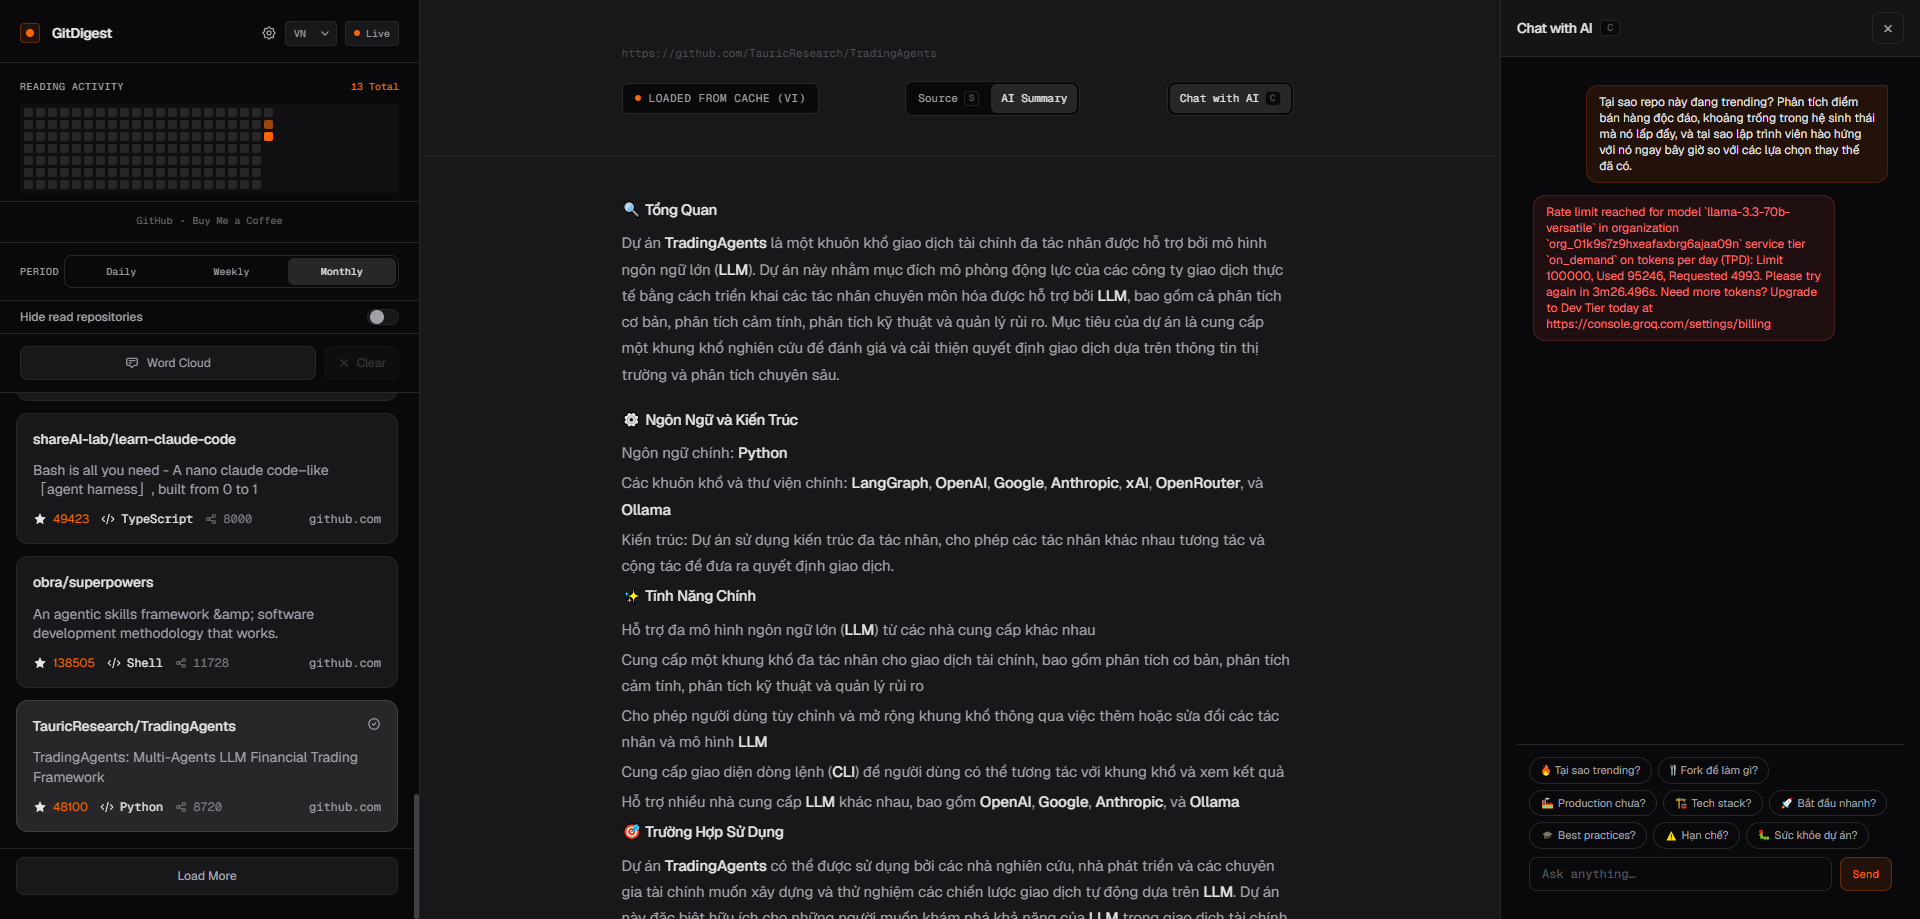
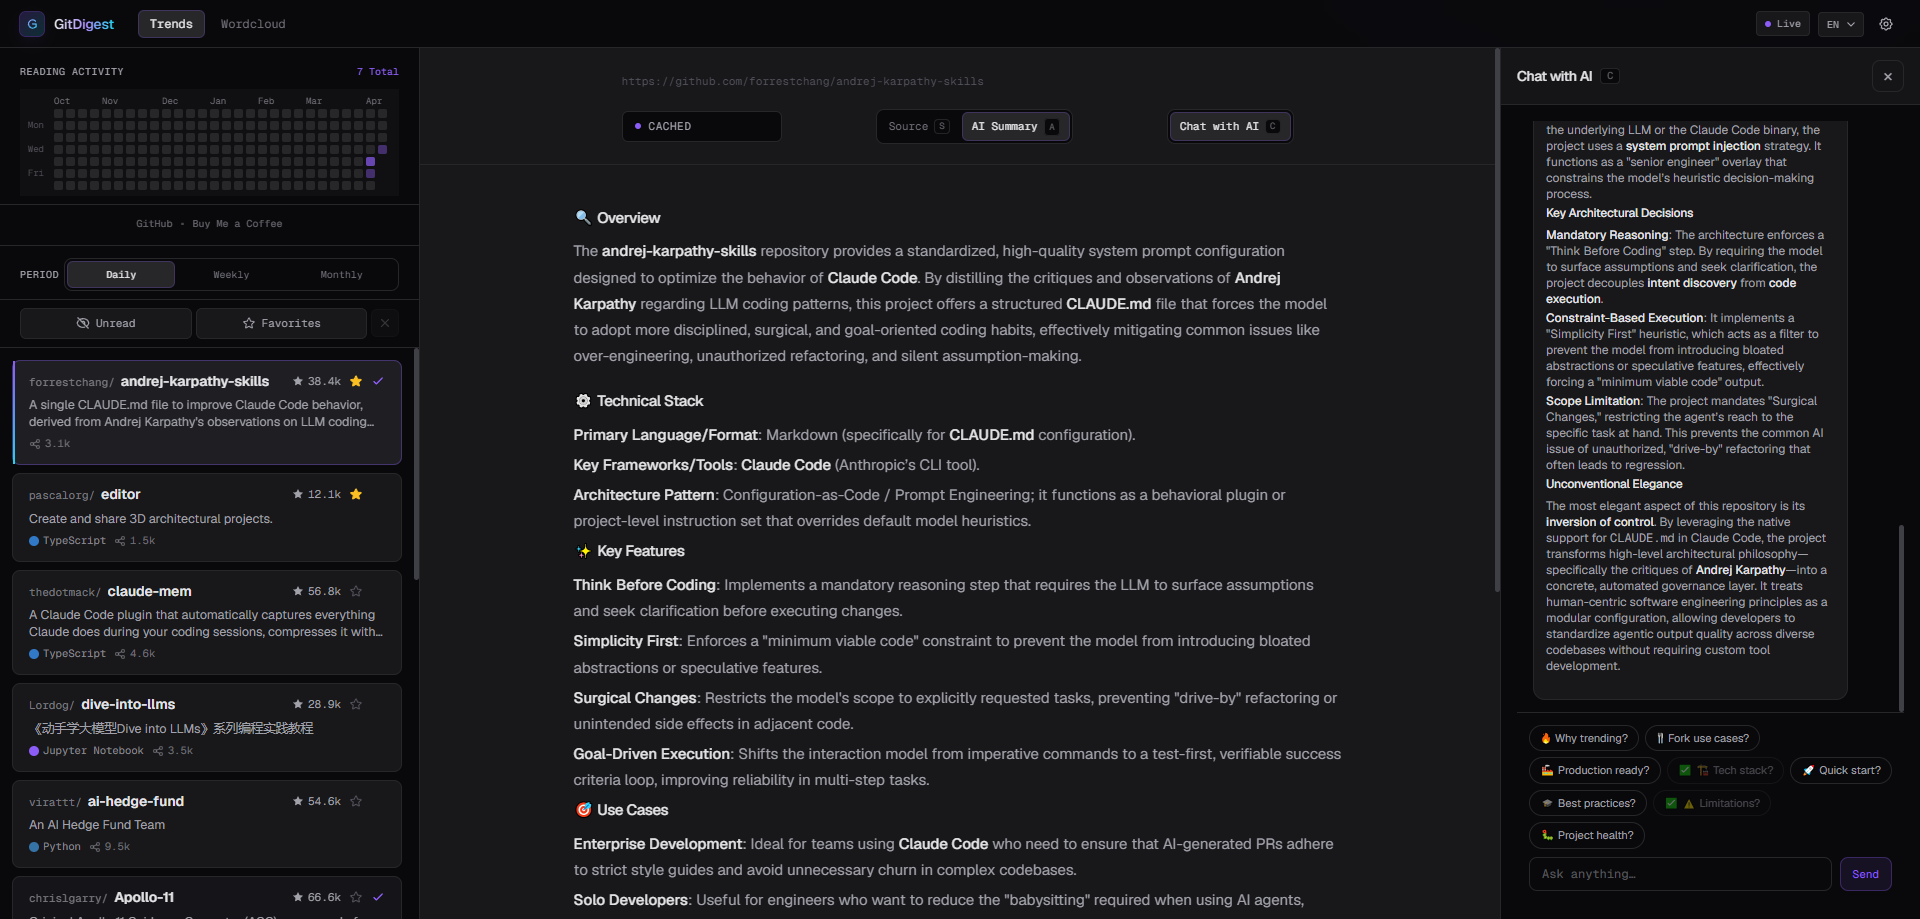
feat(ui): add motion polish + fix mobile nav/back flow
- Animations: chat panel slide-in from right, water-flow effect on filter
  toggle activation (violet→cyan / amber→pink), settings dialog scale+fade,
  wordcloud canvas fade-in, status pill crossfade swap, card hover lift,
  staggered card entrance with translateY, right-pane swap transition.
- Brand: G-shaped logo (was A); hide brand text on mobile.
- Mobile fixes:
  - Wordcloud tab swap panes before await so view appears instantly.
  - F5 on Wordcloud restores wordcloud view (not feed).
  - Back from reader returns to Trends, no longer flips to Wordcloud.
  - Remove redundant "Back to Feed" button inside wordcloud view.
- Update preview.png.

diff --git a/public/js/main.js b/public/js/main.js
@@ -341,41 +341,35 @@ dom.readerViewSourceBtn.addEventListener("click", () => {
   }
 });
 
-// ─── Mobile back ──────────────────────────────────────────────────────────────
+// ─── Mobile back (button only visible on mobile) ──────────────────────────────
 dom.mobileBackBtn.addEventListener("click", () => {
   closeCommentsPanelLocal(false);
-  if (window.innerWidth < MOBILE_BREAKPOINT) {
-    dom.feedPane.classList.remove("hidden");
-    dom.readerPane.classList.add("max-md:hidden");
-  }
-  // Return to wordcloud default on desktop
-  dom.readerWorkspace.classList.add("hidden");
-  dom.readerWorkspace.classList.remove("flex");
-  dom.wordcloudView.classList.remove("hidden");
-  dom.emptyState.classList.add("hidden");
-  // Clear active card
+  // Return to feed list (Trends mode)
+  dom.feedPane.classList.remove("hidden");
+  dom.readerPane.classList.add("max-md:hidden");
+  // Clear active card so reader doesn't auto-restore on next interaction
   if (state.activeCardId) {
     const old = document.getElementById(`card-${state.activeCardId}`);
     if (old) old.classList.remove("is-active");
     state.activeCardId = null;
     state.currentActiveRepo = null;
   }
-  syncNavTabs("wordcloud");
+  syncNavTabs("reader");
 });
 
 // ─── Wordcloud ────────────────────────────────────────────────────────────────
 dom.wordcloudBtn.addEventListener("click", async () => {
   try {
-    showWordCloudView();
-    syncNavTabs("wordcloud");
-    playPaneEnter(dom.wordcloudView);
-    await loadWordCloud(getCurrentWordcloudPeriod(), handleCardClick);
-    
-    // Hide feed on mobile (reader pane takes full width)
+    // Swap mobile panes first so the wordcloud area shows immediately,
+    // then load data (showing skeleton/spinner inside it).
     if (window.innerWidth < MOBILE_BREAKPOINT) {
       dom.feedPane.classList.add("hidden");
       dom.readerPane.classList.remove("max-md:hidden");
     }
+    showWordCloudView();
+    syncNavTabs("wordcloud");
+    playPaneEnter(dom.wordcloudView);
+    await loadWordCloud(getCurrentWordcloudPeriod(), handleCardClick);
   } catch (error) {
     console.error("Failed to load WordCloud:", error);
     // Show error status to user
@@ -609,23 +603,28 @@ const _savedMode = (() => {
 })();
 const _initialMode = _savedMode === "reader" ? "reader" : "wordcloud";
 
-if (_initialMode === "reader" && window.innerWidth >= MOBILE_BREAKPOINT) {
-  // Show empty state — no active repo on fresh load
+if (_initialMode === "reader") {
+  // Mobile: just show feed list (default mobile view). Desktop: show empty state on right.
   dom.wordcloudView.classList.add("hidden");
   dom.readerWorkspace.classList.add("hidden");
-  dom.emptyState.classList.remove("hidden");
-  dom.emptyState.classList.add("flex");
+  if (window.innerWidth >= MOBILE_BREAKPOINT) {
+    dom.emptyState.classList.remove("hidden");
+    dom.emptyState.classList.add("flex");
+  }
   syncNavTabs("reader");
 } else {
   syncNavTabs("wordcloud");
-  if (window.innerWidth >= MOBILE_BREAKPOINT) {
-    (async () => {
-      try {
-        showWordCloudView();
-        await loadWordCloud(getCurrentWordcloudPeriod(), handleCardClick);
-      } catch (err) {
-        console.error("Initial wordcloud load failed:", err);
+  (async () => {
+    try {
+      // On mobile, swap panes so wordcloud takes full screen
+      if (window.innerWidth < MOBILE_BREAKPOINT) {
+        dom.feedPane.classList.add("hidden");
+        dom.readerPane.classList.remove("max-md:hidden");
       }
-    })();
-  }
+      showWordCloudView();
+      await loadWordCloud(getCurrentWordcloudPeriod(), handleCardClick);
+    } catch (err) {
+      console.error("Initial wordcloud load failed:", err);
+    }
+  })();
 }

diff --git a/public/index.html b/public/index.html
@@ -116,11 +116,11 @@
                 <stop offset="1" stop-color="#22d3ee"/>
               </linearGradient>
             </defs>
-            <path d="M5 18 L12 5 L19 18"/>
-            <path d="M8 14 H16"/>
+            <path d="M18 7 A 7 7 0 1 0 18 17"/>
+            <path d="M13 12 L19 12 L19 17"/>
           </svg>
         </span>
-        <span class="text-sm font-semibold tracking-tight bg-clip-text text-transparent" style="background-image: linear-gradient(90deg,#e4e4e7,#a78bfa 55%,#22d3ee);">GitDigest</span>
+        <span class="hidden sm:inline text-sm font-semibold tracking-tight bg-clip-text text-transparent" style="background-image: linear-gradient(90deg,#e4e4e7,#a78bfa 55%,#22d3ee);">GitDigest</span>
       </a>
 
       <!-- Nav tabs -->
@@ -368,29 +368,6 @@
             <div
               class="sticky top-0 z-20 bg-surface/95 backdrop-blur-xl border-b border-borderSubtle shadow-sm flex flex-col shrink-0"
             >
-              <div class="md:hidden p-4 border-b border-borderSubtle">
-                <button
-                  id="wordcloudMobileBackBtn"
-                  type="button"
-                  class="text-sm text-textMuted hover:text-textMain flex items-center gap-2"
-                >
-                  <svg
-                    class="w-4 h-4"
-                    fill="none"
-                    viewBox="0 0 24 24"
-                    stroke="currentColor"
-                  >
-                    <path
-                      stroke-linecap="round"
-                      stroke-linejoin="round"
-                      stroke-width="2"
-                      d="M15 19l-7-7 7-7"
-                    ></path>
-                  </svg>
-                  Back to Feed
-                </button>
-              </div>
-
               <div
                 class="px-6 py-5 md:py-5 md:px-10 lg:px-16 flex flex-col items-center"
               >

diff --git a/public/js/wordcloud.js b/public/js/wordcloud.js
@@ -22,7 +22,6 @@ import {
   wordcloudContent,
   readerPane,
   feedPane,
-  wordcloudMobileBackBtn,
   wordcloudPeriodDaily,
   wordcloudPeriodWeekly,
   wordcloudPeriodMonthly,
@@ -593,18 +592,3 @@ if (wordcloudPeriodMonthly) {
   );
 }
 
-// Mobile: back button hides wordcloud view and restores feed visibility
-if (wordcloudMobileBackBtn) {
-  wordcloudMobileBackBtn.addEventListener("click", () => {
-    hideWordCloudView();
-    // Also hide the readerPane on mobile so the feed pane is visible again
-    if (readerPane) {
-      readerPane.classList.add("hidden");
-      readerPane.classList.remove("flex");
-    }
-    // Show feed pane again
-    if (feedPane) {
-      feedPane.classList.remove("hidden");
-    }
-  });
-}

diff --git a/public/js/dom.js b/public/js/dom.js
@@ -76,7 +76,6 @@ export const wordcloudStatus = q("wordcloudStatus");
 export const wordcloudCategories = q("wordcloudCategories");
 export const wordcloudInsights = q("wordcloudInsights");
 export const wordcloudTrends = q("wordcloudTrends");
-export const wordcloudMobileBackBtn = q("wordcloudMobileBackBtn");
 export const wordcloudPeriodDaily = q("wordcloudPeriodDaily");
 export const wordcloudPeriodWeekly = q("wordcloudPeriodWeekly");
 export const wordcloudPeriodMonthly = q("wordcloudPeriodMonthly");
